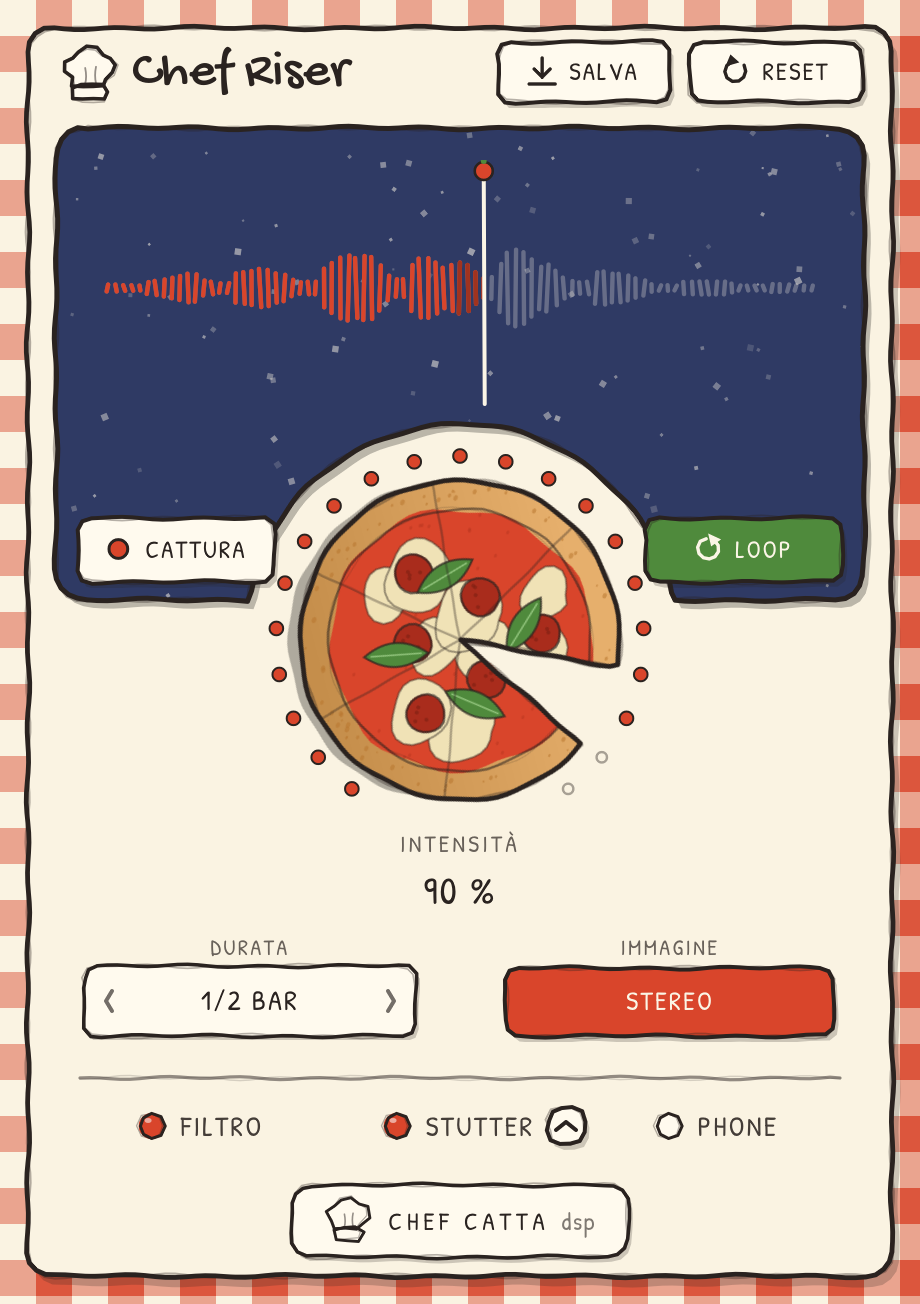
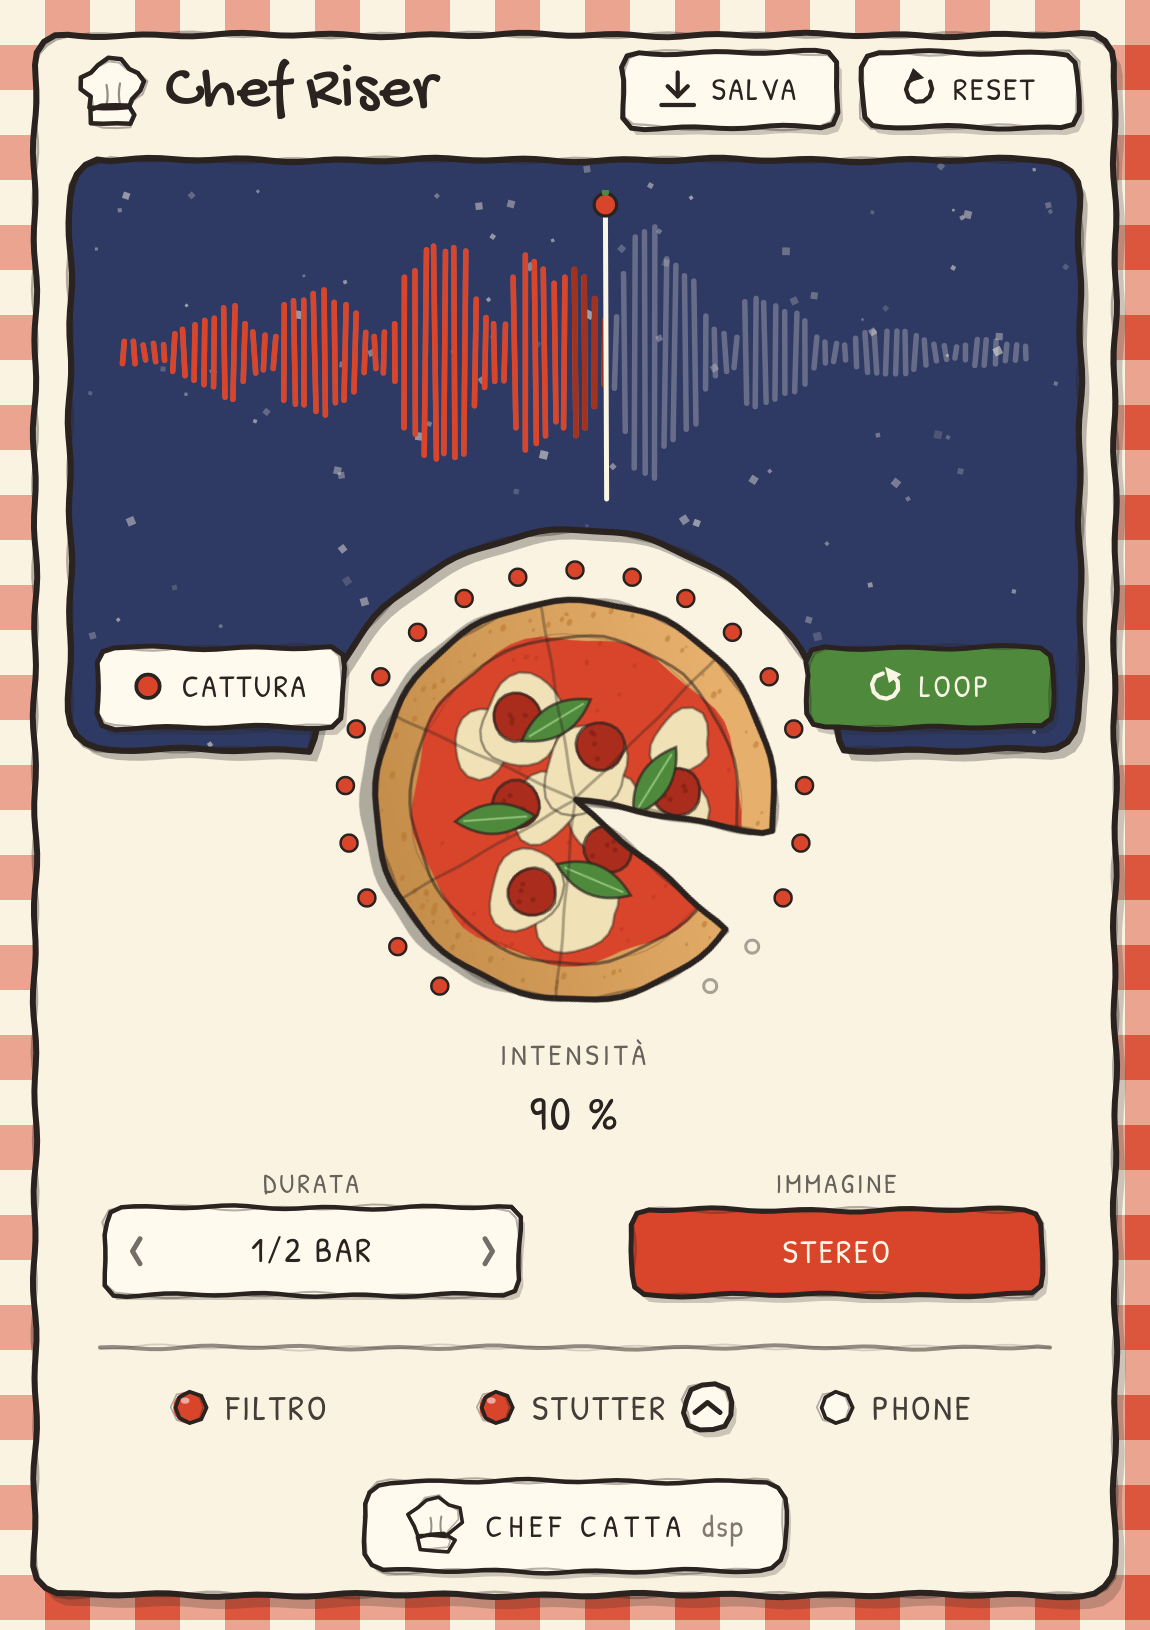
Chef Riser 1.9.0: interfaccia piu grande (125%), forma d'onda proporzionata
- Tutta l'interfaccia e ingrandita del 25%
- La forma d'onda occupa in proporzione lo spazio del display e la barra piu
  alta riempie quasi tutto il riquadro, qualunque sia il livello del riser

Claude-Session: https://claude.ai/code/session_01HaF7XKr7HpkpQMPQsrDZc5

Changed region(s): [[0.0913, 0.092, 0.8522, 0.3067], [0.8522, 0.184, 0.8826, 0.2147], [0.4565, 0.9202, 0.487, 0.9509]]

diff --git a/Source/PluginEditor.cpp b/Source/PluginEditor.cpp
@@ -25,6 +25,10 @@ namespace Ink
 // Varianti grafiche (per scegliere lo stile): 0 quaderno, 1 lavagna, 2 tovaglia
 int riserThemeId = 2;   // scelta: tovaglia a quadri
 
+// L'interfaccia si disegna in coordinate "logiche" 460 x 652 e viene ingrandita del 25%
+static constexpr float uiScale  = 1.25f;
+static constexpr int   logicalW = 460, logicalH = 652;
+
 static void applyTheme (int id)
 {
     using juce::Colour;
@@ -660,9 +664,12 @@ void RiserWaveView::rebuildLayers (float scale)
 
     if (peaks == nullptr || peaks->empty()) return;
 
-    auto inner = getLocalBounds().toFloat().reduced (6.0f, 10.0f);
+    auto inner = getLocalBounds().toFloat().reduced ((float) getWidth() * 0.015f, (float) getHeight() * 0.08f);
     const float mid  = inner.getCentreY();
     const int   bars = juce::jmax (24, (int) (inner.getWidth() / 4.0f));
+    float peakMax = 0.0f;
+    for (auto v : *peaks) peakMax = juce::jmax (peakMax, v);
+    const float norm = peakMax > 1.0e-6f ? 0.92f / peakMax : 1.0f;   // la barra piu alta riempie quasi tutto il riquadro
     const float bw   = inner.getWidth() / (float) bars;
     const float half = inner.getHeight() * 0.5f;
     const int   nb   = (int) peaks->size();
@@ -675,7 +682,7 @@ void RiserWaveView::rebuildLayers (float scale)
         const int k0 = i * nb / bars, k1 = juce::jmax (k0 + 1, (i + 1) * nb / bars);
         float m = 0.0f;
         for (int k = k0; k < k1; ++k) m = juce::jmax (m, (*peaks)[(size_t) k]);
-        const float hh = juce::jmax (1.2f, m * half);
+        const float hh = juce::jmax (1.2f, m * norm * half);
         const float xx = inner.getX() + ((float) i + 0.5f) * bw + (rng.nextFloat() - 0.5f) * 0.6f;
         const float lean = (rng.nextFloat() - 0.5f) * 1.2f;
         w.startNewSubPath (xx - lean, mid - hh);
@@ -699,7 +706,7 @@ void RiserWaveView::rebuildLayers (float scale)
 void RiserWaveView::paint (juce::Graphics& g)
 {
     auto r = getLocalBounds().toFloat();
-    auto inner = r.reduced (6.0f, 10.0f);
+    auto inner = r.reduced ((float) getWidth() * 0.015f, (float) getHeight() * 0.08f);
     const float mid = inner.getCentreY();
 
     if (! proc.hasRender())
@@ -851,7 +858,7 @@ VocalRiserAudioProcessorEditor::VocalRiserAudioProcessorEditor (VocalRiserAudioP
     amountKnob.setMouseCursor (juce::MouseCursor::PointingHandCursor);
     addAndMakeVisible (amountKnob);
     amountAtt = std::make_unique<SliderAtt> (apvts, "amount", amountKnob);
-    amountKnob.onValueChange = [this] { repaint (intensityArea); };
+    amountKnob.onValueChange = [this] { repaint (intensityArea.toFloat().transformedBy (juce::AffineTransform::scale (uiScale)).getSmallestIntegerContainer().expanded (2)); };
 
     addAndMakeVisible (lengthSel);
 
@@ -885,7 +892,7 @@ VocalRiserAudioProcessorEditor::VocalRiserAudioProcessorEditor (VocalRiserAudioP
     addChildComponent (stutPopup);
     addMouseListener (this, true);          // per chiudere il menu con un clic fuori
 
-    setSize (460, 652);
+    setSize (juce::roundToInt (logicalW * uiScale), juce::roundToInt (logicalH * uiScale));
     timerCallback();
     startTimerHz (30);
 }
@@ -909,11 +916,12 @@ void VocalRiserAudioProcessorEditor::paint (juce::Graphics& g)
         bgCache = juce::Image (juce::Image::ARGB, juce::jmax (1, juce::roundToInt ((float) getWidth() * scale)),
                                juce::jmax (1, juce::roundToInt ((float) getHeight() * scale)), true);
         juce::Graphics bg (bgCache);
-        bg.addTransform (juce::AffineTransform::scale (scale));
+        bg.addTransform (juce::AffineTransform::scale (scale * uiScale));
         paintStatic (bg);
     }
     g.setOpacity (1.0f);
     g.drawImage (bgCache, getLocalBounds().toFloat());
+    g.addTransform (juce::AffineTransform::scale (uiScale));   // da qui in coordinate logiche
 
     // percentuale sotto la pizza
     g.setFont (handFont (26.0f, 0.04f));
@@ -952,7 +960,7 @@ static juce::Path displayPath (juce::Rectangle<float> d, juce::Point<float> c, f
 void VocalRiserAudioProcessorEditor::paintStatic (juce::Graphics& g)
 {
     using namespace juce;
-    const auto b = getLocalBounds().toFloat();
+    const auto b = juce::Rectangle<float> (0.0f, 0.0f, (float) logicalW, (float) logicalH);
     const auto kc = amountKnob.getBounds().toFloat().getCentre();
     const float notchR = (float) amountKnob.getWidth() * 0.5f + 10.0f;
     const auto disp = displayArea.toFloat();
@@ -1122,7 +1130,7 @@ void VocalRiserAudioProcessorEditor::paintStatic (juce::Graphics& g)
 void VocalRiserAudioProcessorEditor::resized()
 {
     bgCache = {};
-    const int W = getWidth();
+    const int W = logicalW;
     const int inset = riserThemeId == 0 ? 20 : 26;
 
     // intestazione: SALVA e RESET a destra
@@ -1133,7 +1141,13 @@ void VocalRiserAudioProcessorEditor::resized()
     displayArea = { inset + 2, 64, W - 2 * inset - 4, 236 };
     const int ks = 196;
     amountKnob.setBounds (W / 2 - ks / 2, displayArea.getBottom() - 78, ks, ks);
-    wave.setBounds (displayArea.getX() + 18, displayArea.getY() + 16, displayArea.getWidth() - 36, 128);
+    // forma d'onda: occupa (in proporzione) lo spazio del display sopra l'incavo della pizza
+    {
+        const int notchTop = amountKnob.getBounds().getCentreY() - (amountKnob.getWidth() / 2 + 10);
+        const int mx = juce::roundToInt ((float) displayArea.getWidth() * 0.035f);
+        const int top = displayArea.getY() + juce::roundToInt ((float) displayArea.getHeight() * 0.05f);
+        wave.setBounds (displayArea.getX() + mx, top, displayArea.getWidth() - 2 * mx, juce::jmax (40, notchTop - 6 - top));
+    }
     const int cy = displayArea.getBottom() - 44;
     captureBtn.setBounds (displayArea.getX() + 8, cy, 104, 38);
     loopBtn.setBounds (displayArea.getRight() - 112, cy, 104, 38);
@@ -1157,6 +1171,11 @@ void VocalRiserAudioProcessorEditor::resized()
     const int chevX = juce::roundToInt ((float) sb.getCentreX() + (13.0f + 8.0f + tw) * 0.5f + 4.0f);
     stutMenuBtn.setBounds (chevX, sb.getY() + 4, 24, 24);
 
+    // tutti i controlli vengono ingranditi insieme al disegno
+    for (auto* c : getChildren())
+        if (dynamic_cast<juce::TooltipWindow*> (c) == nullptr)
+            c->setTransform (juce::AffineTransform::scale (uiScale));
+
     if (stutPopup.isVisible()) showStutterMenu (true);
 }
 
@@ -1165,7 +1184,7 @@ void VocalRiserAudioProcessorEditor::showStutterMenu (bool show)
     if (show)
     {
         const auto sb = fxBtns[1].getBounds();
-        const int x = juce::jlimit (8, getWidth() - StutterPopup::width - 8, sb.getCentreX() - StutterPopup::width / 2);
+        const int x = juce::jlimit (8, logicalW - StutterPopup::width - 8, sb.getCentreX() - StutterPopup::width / 2);
         stutPopup.setTopLeftPosition (x, sb.getY() - StutterPopup::height + 4);
         stutPopup.setArrowX ((float) (sb.getX() + 50 - x));
         stutPopup.toFront (false);
@@ -1179,8 +1198,8 @@ void VocalRiserAudioProcessorEditor::mouseDown (const juce::MouseEvent& e)
 {
     if (! stutPopup.isVisible()) return;
     const auto pos = e.getEventRelativeTo (this).getPosition();
-    if (! stutPopup.getBounds().contains (pos) && ! stutMenuBtn.getBounds().contains (pos)
-         && ! fxBtns[1].getBounds().contains (pos))
+    if (! stutPopup.getBoundsInParent().contains (pos) && ! stutMenuBtn.getBoundsInParent().contains (pos)
+         && ! fxBtns[1].getBoundsInParent().contains (pos))
         showStutterMenu (false);
 }
 
@@ -1217,7 +1236,7 @@ void VocalRiserAudioProcessorEditor::timerCallback()
             stereoBtn.setEnabled (true);
             stereoBtn.getProperties().remove ("forceOn");
         }
-        repaint (imageTitleArea);
+        repaint (imageTitleArea.toFloat().transformedBy (juce::AffineTransform::scale (uiScale)).getSmallestIntegerContainer().expanded (2));
     }
     if (src != 1)
     {
